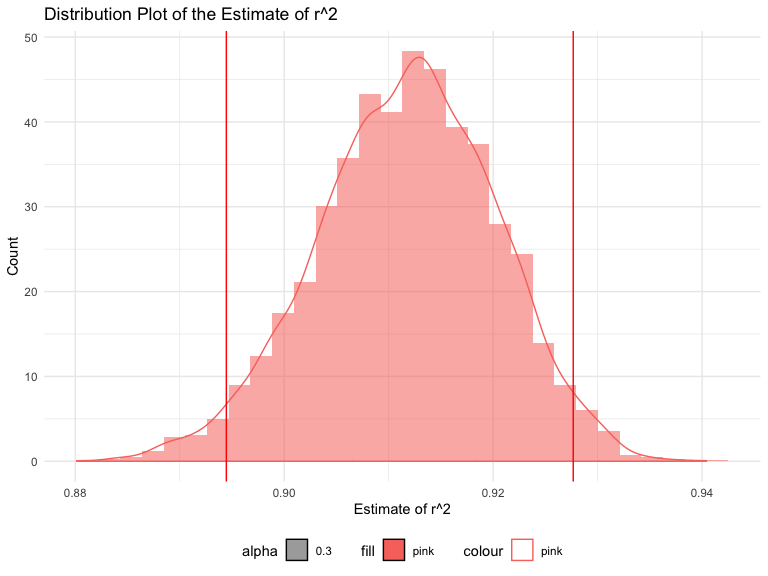
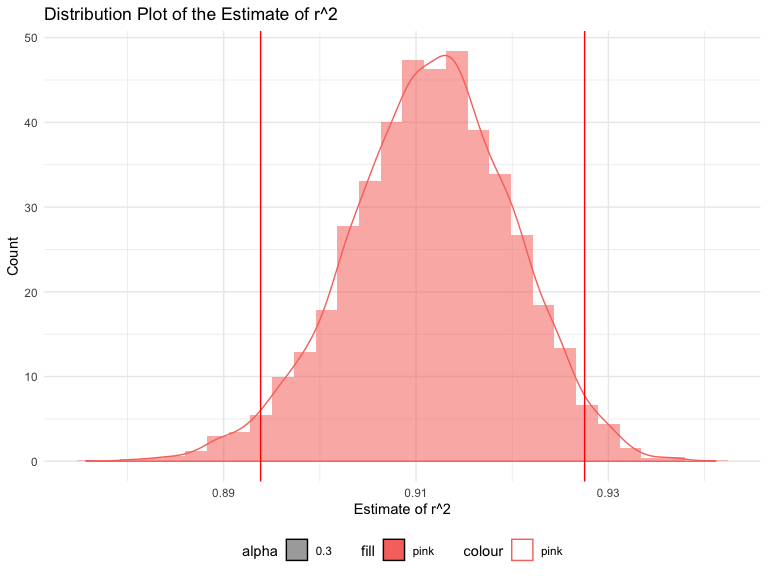
set seed

diff --git a/p8105_hw6_ys3298.md b/p8105_hw6_ys3298.md
@@ -330,6 +330,7 @@ we’ve seen elsewhere. The code chunk below (adapted from the course
 website) will download these data.
 
 ``` r
+set.seed(10)
 weather_df = 
   rnoaa::meteo_pull_monitors(
     c("USW00094728"),
@@ -418,7 +419,7 @@ CI_r2
 ```
 
     ##      2.5%     97.5% 
-    ## 0.8944617 0.9276645
+    ## 0.8938410 0.9275271
 
 ``` r
 bootstrap_results %>% 
@@ -483,7 +484,7 @@ CI_log
 ```
 
     ##     2.5%    97.5% 
-    ## 1.965895 2.058558
+    ## 1.964572 2.059126
 
 ``` r
 log %>% 
